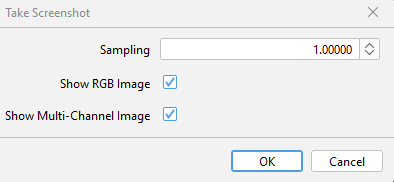
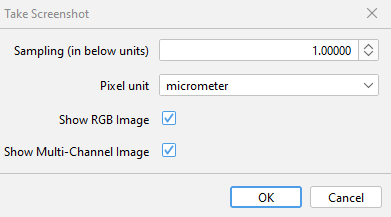
update screenshot tutorial

diff --git a/tutorials/more_features.md b/tutorials/more_features.md
@@ -10,7 +10,8 @@ This will open the following menu:
 
 <img width="400" alt="image" src="./tutorial_images/screenshot_ui.png">
 
-- **Sampling** - Sampling of screenshot (uses same units as viewer, see the viewer scalebar).
+- **Sampling** - Sampling of screenshot (in units stated on 'Pixel unit' line).
+- **Pixel unit** - Units to use for sampling
 - **Show RGB Image** - create an RGB image of the viewer.
 - **Show Multi-Channel Image** - create a multi-channel image, where each image shown in the viewer becomes
 a separate channel.
